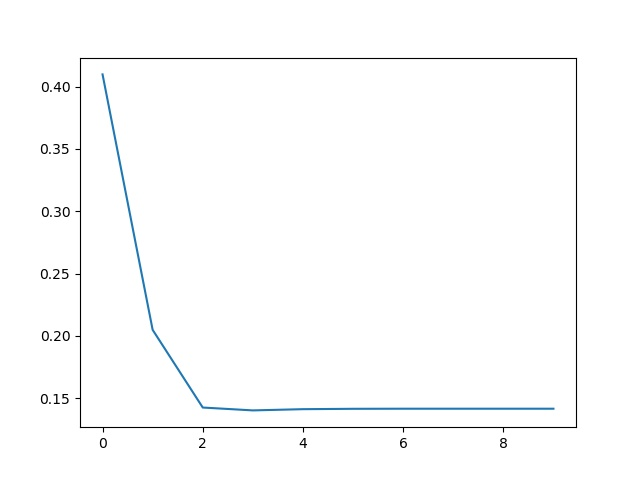
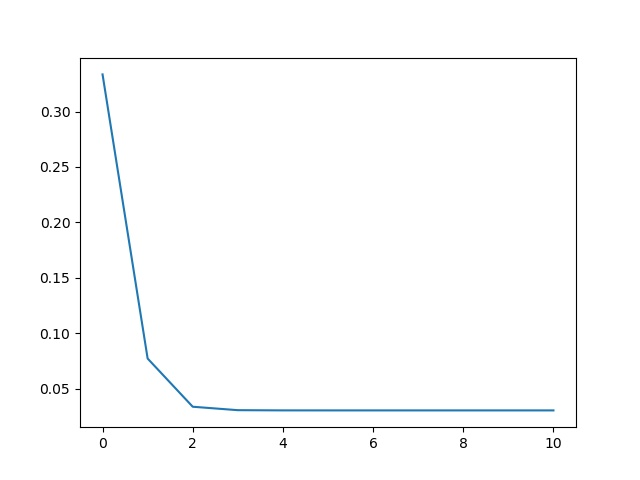
cdscsd

diff --git a/kmeans.py b/kmeans.py
@@ -74,7 +74,7 @@ def train(image, k):
             centroid, i = choose_centroid(centroids, pixel)
             nums[i] += 1
             sums[i] = sums[i] + pixel
-            iter_loss += distance(pixel, centroid)
+            iter_loss += np.power(distance(pixel, centroid),2)
         centroids = [s/n for s,n in zip(sums,nums)]
         loss.append(iter_loss/data_len)
     new_img = []

diff --git a/ex1.py b/ex1.py
@@ -40,6 +40,7 @@ def main():
         if options.img:
             resized = resize_image(new_img, old_size)
             toimage(resized).save("images/img-{}.jpeg".format(k))
+        plt.clf()
 
 
 if __name__ == '__main__':
